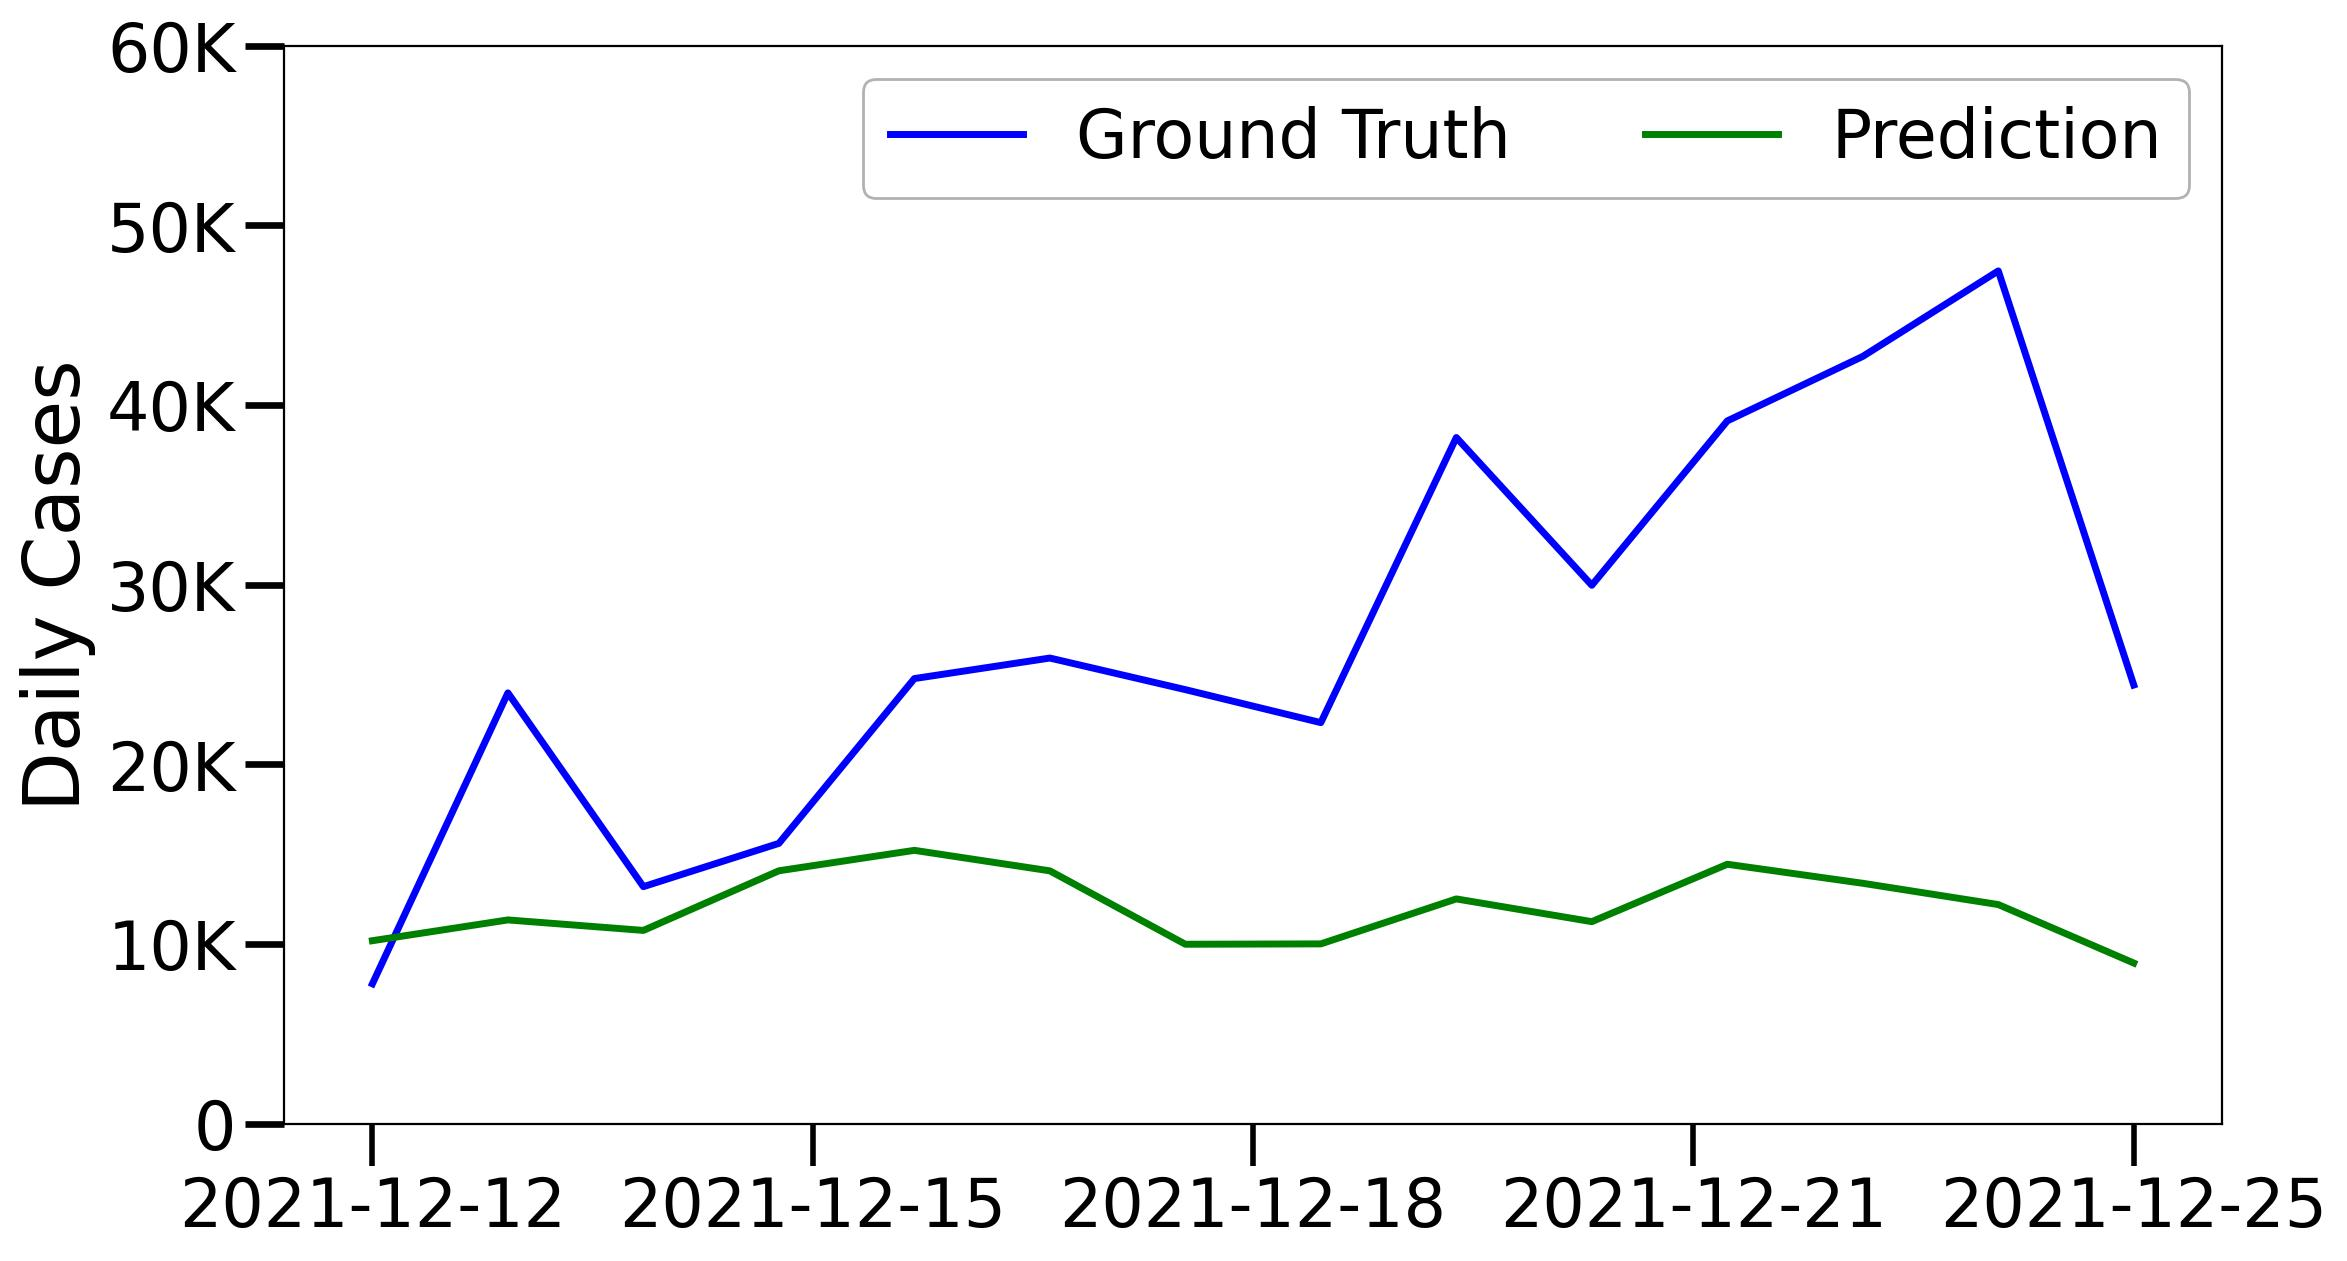
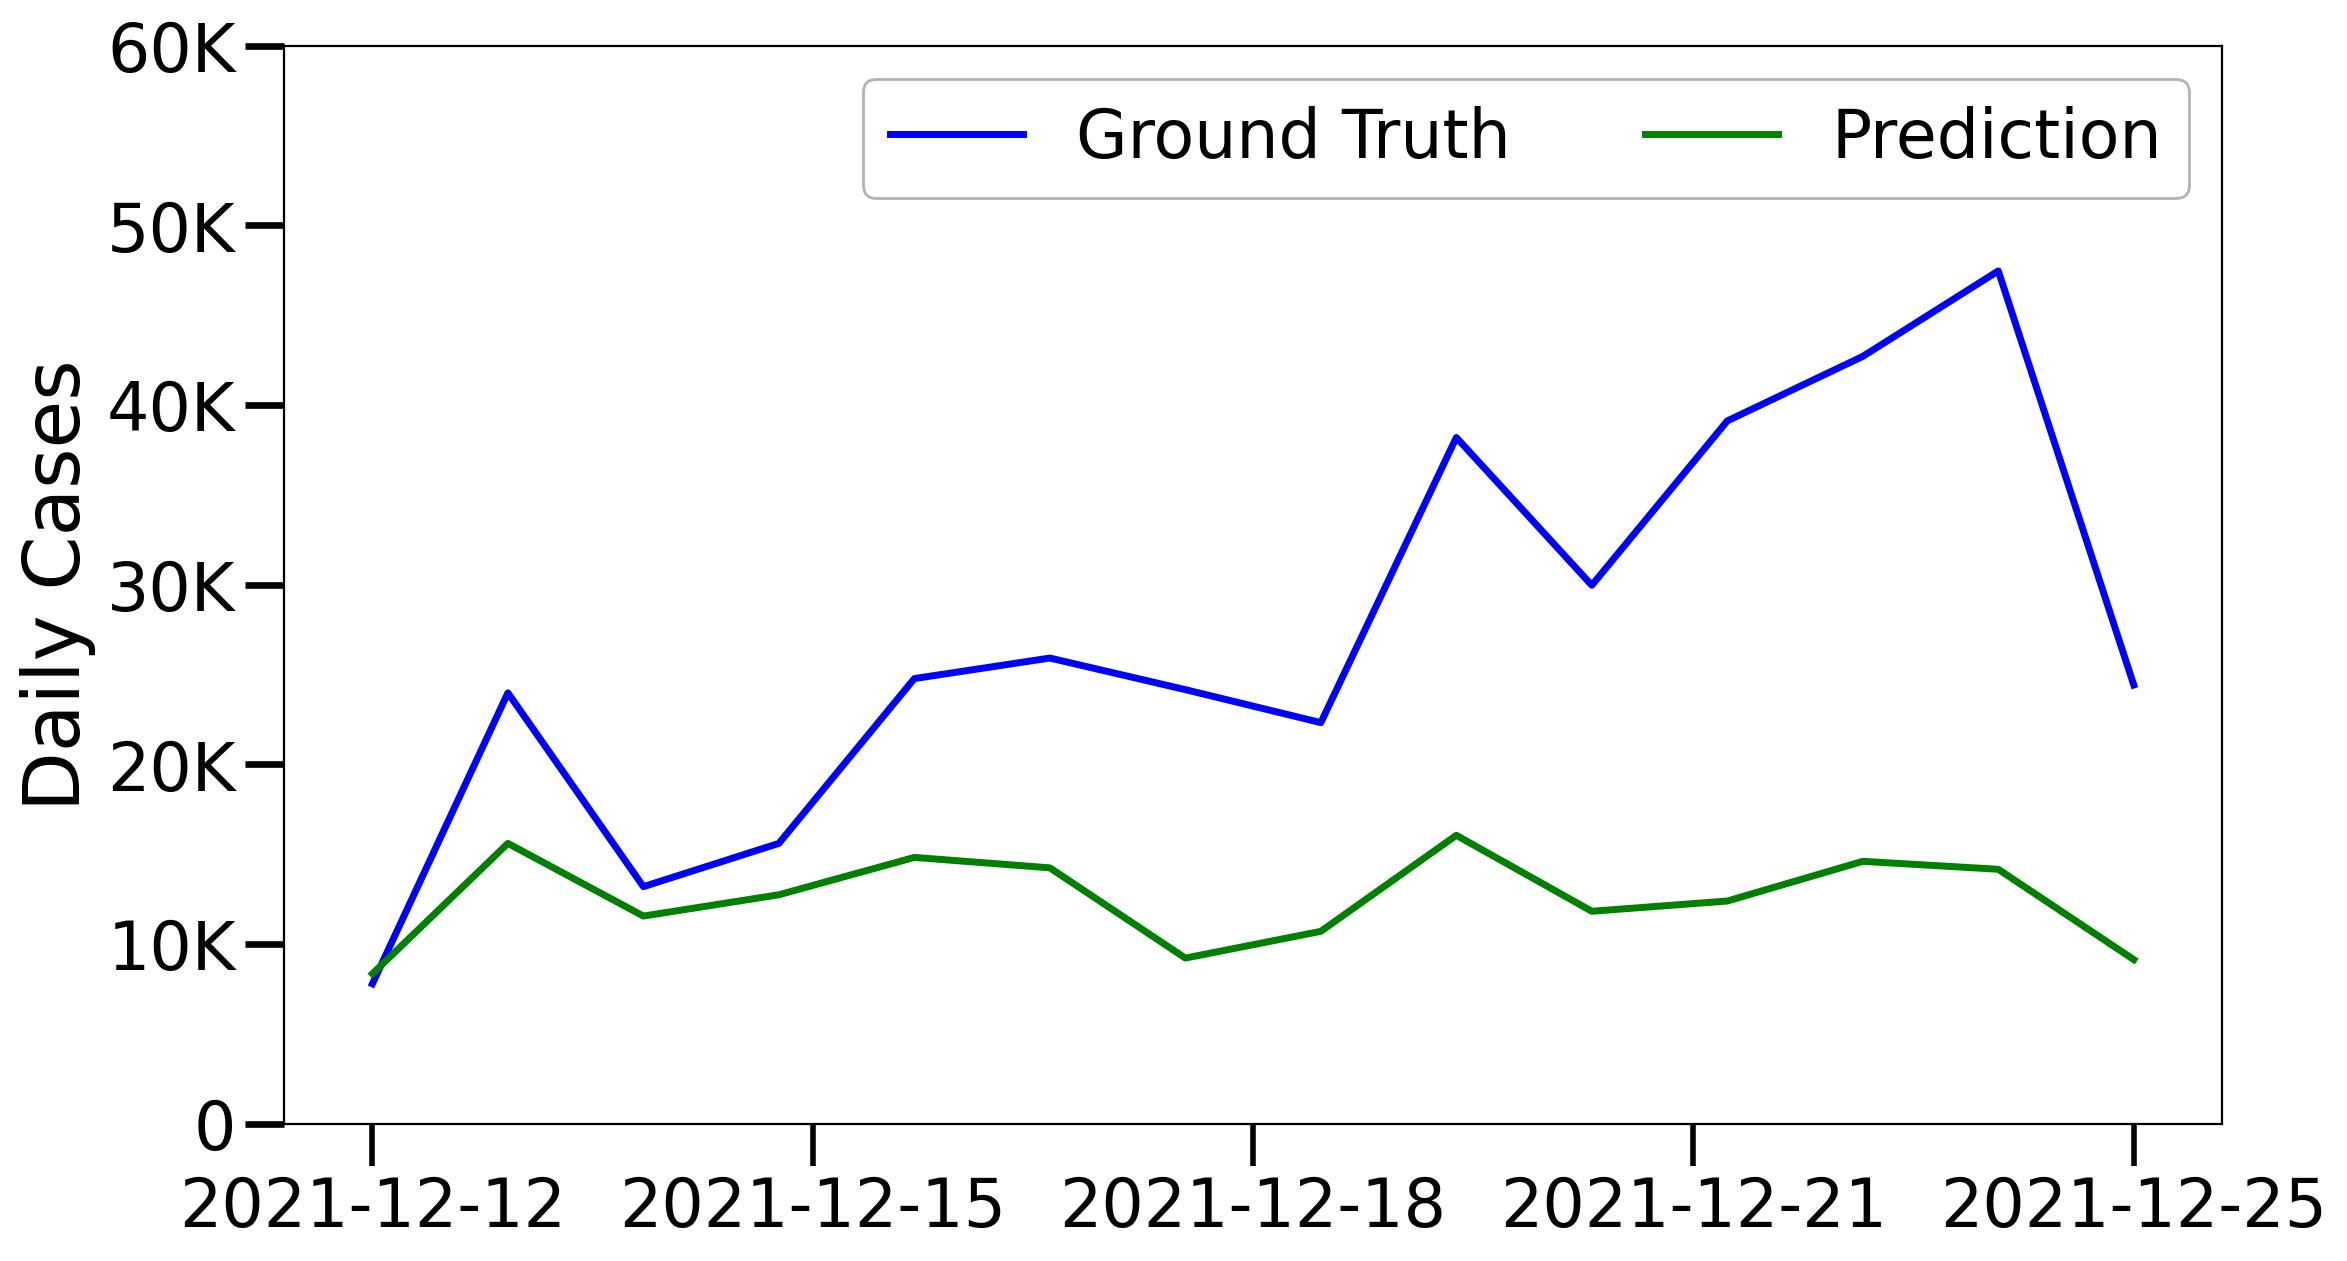
fix llm params

diff --git a/run_TimeLLM.py b/run_TimeLLM.py
@@ -12,17 +12,11 @@ def load_content(args):
             
 def get_parser():
 
-    parser = get_basic_parser("TimeLLM")
-
-    parser.add_argument(
-        '--model_id', default='ori', choices=['ori', 'removeLLM', 
-        'randomInit', 'llm_to_trsf', 'llm_to_attn']
-    )
-    parser.add_argument('--model', type=str, default='TimeLLM', choices=['TimeLLM'])
-    
-    parser.add_argument('--patch_len', type=int, default=16, help='patch length')
+    parser = get_basic_parser()
+    parser.add_argument('--patch_len', type=int, default=7, help='patch length')
     parser.add_argument('--stride', type=int, default=8, help='stride')
     parser.add_argument('--prompt_domain', type=int, default=1, help='')
+    
     parser.add_argument(
         '--llm_model', type=str, default='GPT2', help='LLM model',
         choices=['LLAMA', 'GPT2', 'BERT']) # 
@@ -35,5 +29,7 @@ def get_parser():
 if __name__ == '__main__':
     parser = get_parser()
     args = parser.parse_args()
-    args.content = load_content(args)
+    
+    args.model = 'TimeLLM'
+    args.content = 'Daily COVID-19 cases forecast at US county level for the next 14 days, based on previous 14 days'
     main(args)

diff --git a/run_OFA.py b/run_OFA.py
@@ -10,13 +10,11 @@ def get_parser():
 
     parser.add_argument('--gpt_layers', type=int, default=2)
     parser.add_argument('--is_gpt', type=int, default=1)
-
     parser.add_argument('--patch_size', type=int, default=7)
-    parser.add_argument('--kernel_size', type=int, default=8)
 
     parser.add_argument('--pretrain', type=int, default=1)
     parser.add_argument('--freeze', type=int, default=1)
-    parser.add_argument('--stride', type=int, default=7)
+    parser.add_argument('--stride', type=int, default=1)
     parser.add_argument('--max_len', type=int, default=-1)
     parser.add_argument('--hid_dim', type=int, default=16)
     parser.add_argument('--tmax', type=int, default=10)

diff --git a/exp/exp_forecasting.py b/exp/exp_forecasting.py
@@ -44,8 +44,11 @@ class Exp_Forecast(object):
         
         self.age_data = AgeData.build(args)
         self.total_data = self.age_data.read_df()
+        
+        # for pretrained models, tuning on a smaller set is sufficient
+        split = Split.primary() if args.model not in ['TimeLLM', 'OFA', 'CALF'] else Split.secondary()
         train, val, test, updated = self.age_data.split_data(
-            self.total_data, Split.primary()
+            self.total_data, split
         )
         self.data_map = {
             'train': train, 'val':val, 

diff --git a/run.py b/run.py
@@ -133,6 +133,9 @@ def get_parser():
         help='hidden layer dimensions of projector (List)')
     parser.add_argument('--p_hidden_layers', type=int, default=2, help='number of hidden layers in projector')
     
+    # few shot percentage
+    parser.add_argument('--percent', type=int, default=100, help='few shot percentage')
+    
     parser.add_argument('--disable_progress', action='store_true', help='disable progress bar')
     
     return parser

diff --git a/exp/config.py b/exp/config.py
@@ -58,3 +58,11 @@ class Split:
             test_start="2021-12-12", test_end="2021-12-25",
             transform=to_datetime
         )
+        
+    @staticmethod
+    def secondary():
+        return Split(
+            train_start="2021-08-01", val_start="2021-11-28",
+            test_start="2021-12-12", test_end="2021-12-25",
+            transform=to_datetime
+        )

diff --git a/models/OFA.py b/models/OFA.py
@@ -55,7 +55,6 @@ class Model(nn.Module):
         self.stride = configs.stride
         self.patch_num = (configs.seq_len - self.patch_size) // self.stride + 1
         self.gpt_layers = configs.gpt_layers 
-        self.gpt_layers = 6
         self.padding_patch_layer = nn.ReplicationPad1d((0, self.stride)) 
         self.patch_num += 1
         self.ts_scale = -100

diff --git a/utils/timeLLM_utils.py b/utils/timeLLM_utils.py
@@ -3,8 +3,7 @@ from torch import nn
 from tqdm import tqdm
 
 def stringify_args(args):
-    setting = '{}_{}_{}_ft{}_sl{}_ll{}_pl{}_dm{}_nh{}_el{}_dl{}_df{}_fc{}_eb{}_{}_{}'.format(
-        args.model_id,
+    setting = '{}_{}_ft{}_sl{}_ll{}_pl{}_dm{}_nh{}_el{}_dl{}_df{}_fc{}_eb{}_{}_{}'.format(
         args.model,
         args.data,
         args.features,

diff --git a/data/data_factory.py b/data/data_factory.py
@@ -101,6 +101,7 @@ class AgeData:
     ):
         dates = df[self.date_index]
         df[self.time_index] = (dates - split.train_start).dt.days
+        
         train_data = df[(dates >= split.train_start) & (dates < split.val_start)]
         
         # at least input_sequence_length prior days data is needed to start prediction
